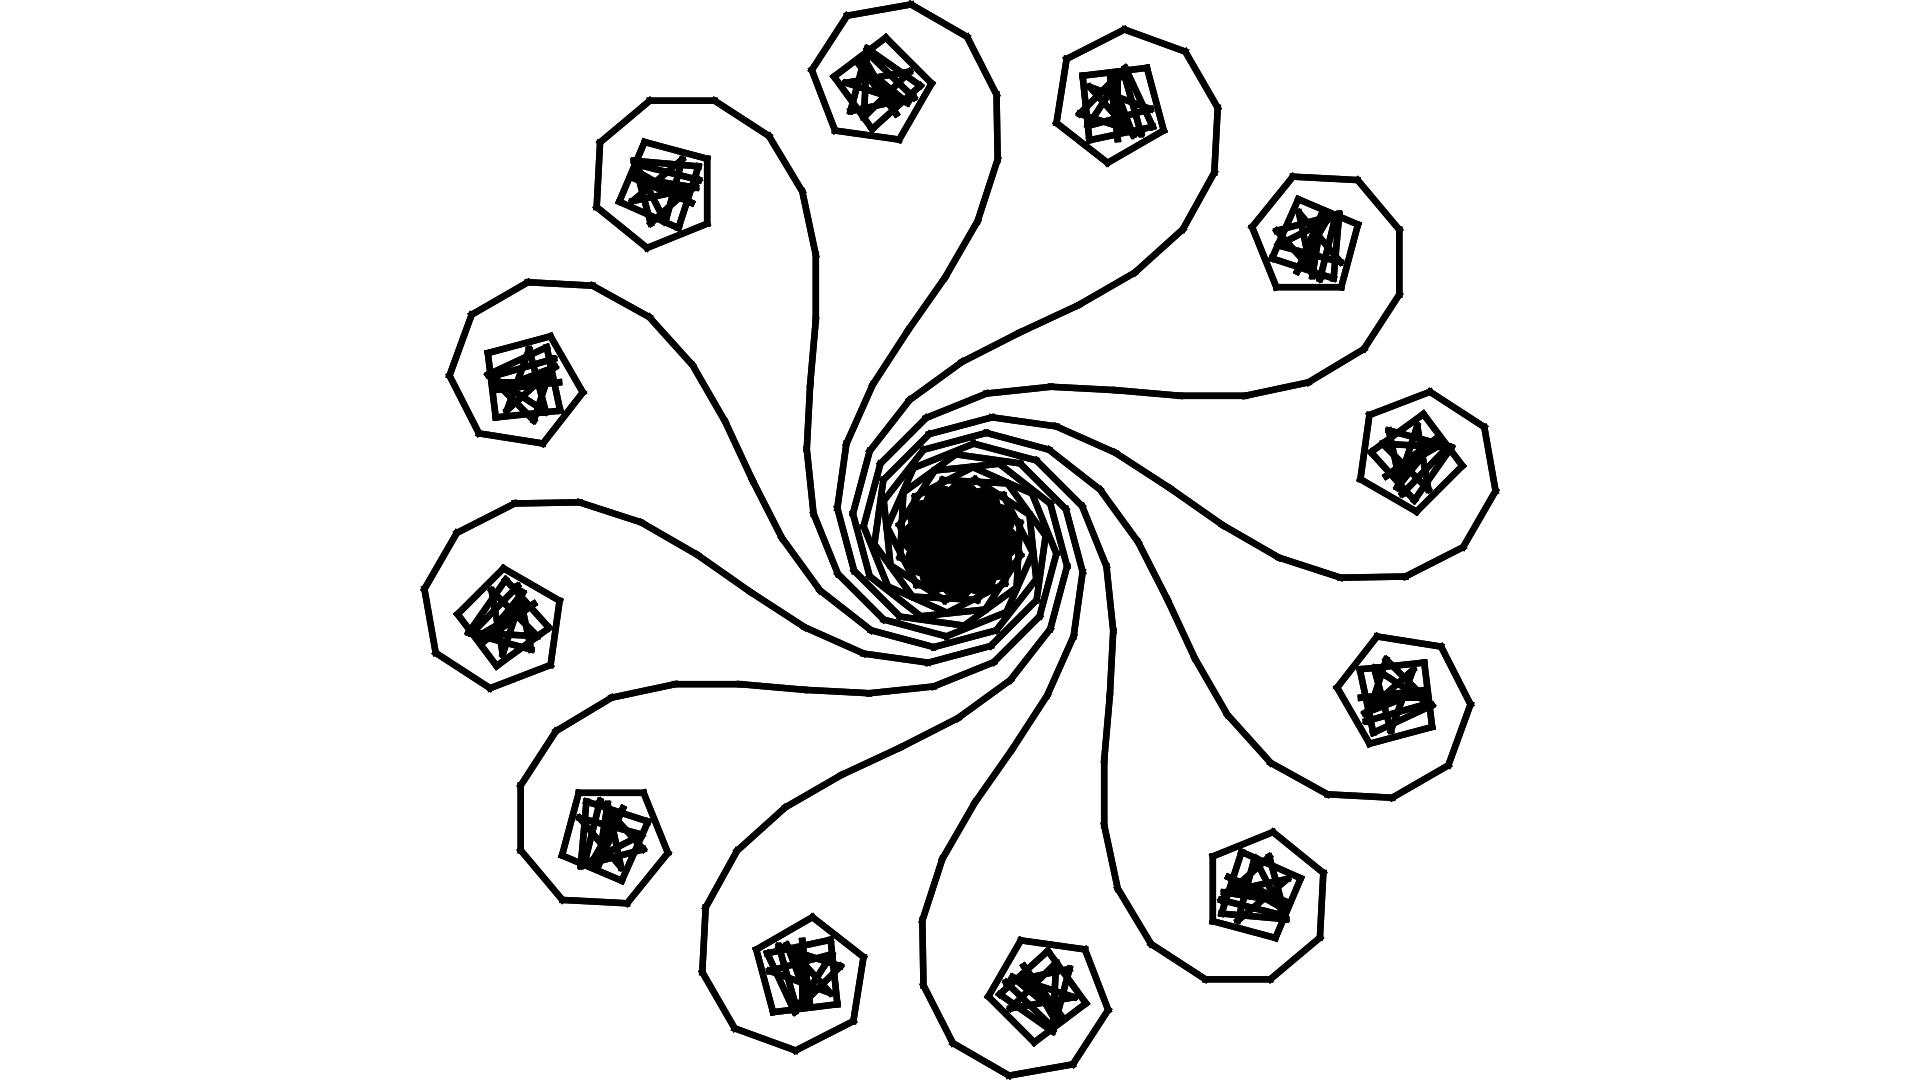
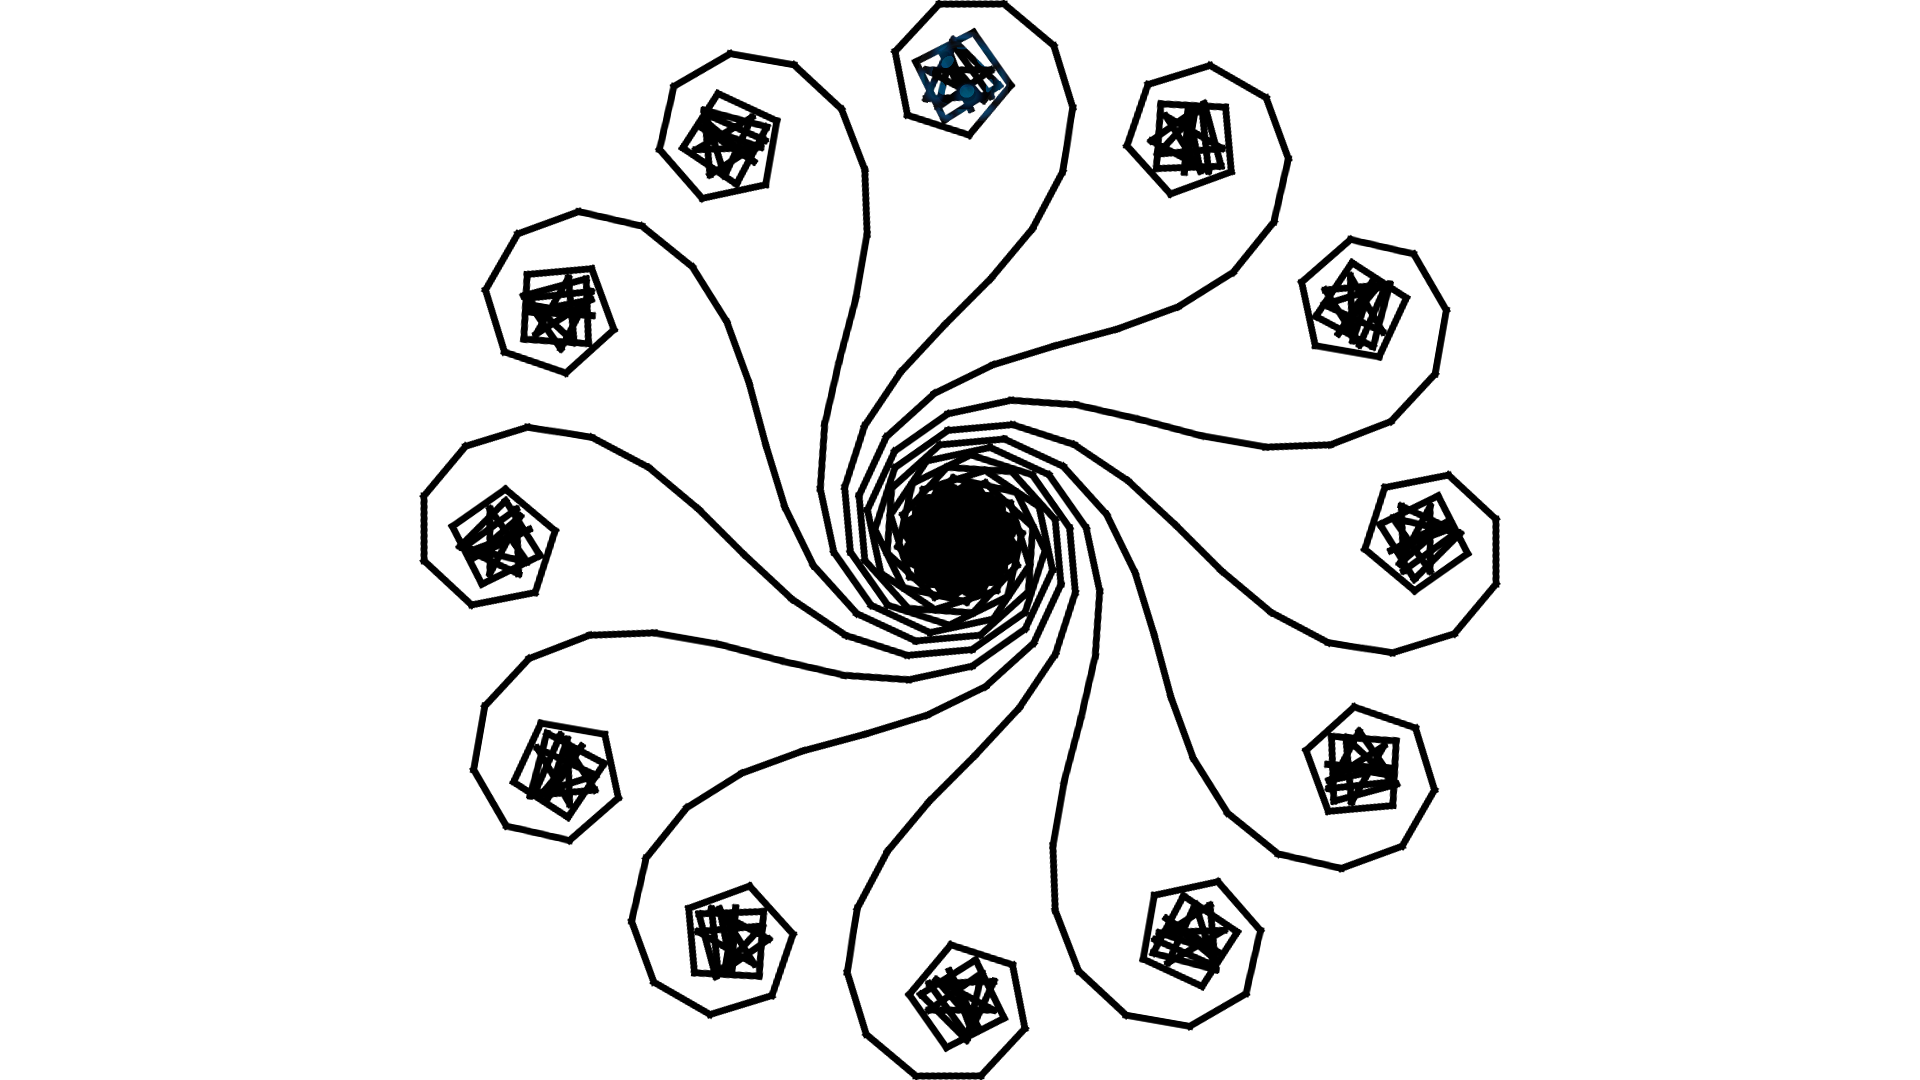
should be done/refined

Changed region(s): [[0.2188, 0.0, 0.7812, 1.0]]

diff --git a/live-wallpaper/live-dive.py b/live-wallpaper/live-dive.py
@@ -6,14 +6,16 @@ base = Image.open('coool2.png').convert('RGBA')
 wheel = Image.open('coool.png').convert('RGBA')
 
 txt = Image.new('RGBA', base.size, (255,255,255,0))
-fnt = ImageFont.truetype('Pillow/Tests/fonts/FreeMono.ttf', 18)
+#fnt = ImageFont.truetype('Pillow/Tests/fonts/FreeMono.ttf', 18)
+fnt = ImageFont.truetype('/usr/share/fonts/truetype/dejavu/DejaVuSansMono.ttf', 14)
 d = ImageDraw.Draw(txt)
 
-d.text((10,60), subprocess.run(['tail', '/home/alex/irclogs/Skynet/#twitter.log'], stdout=subprocess.PIPE).stdout.decode('utf-8'), font=fnt, fill=(255,255,255,255))
-d.text((10,300), subprocess.run(['tail', '/home/alex/irclogs/Skynet/#twitter2.log'], stdout=subprocess.PIPE).stdout.decode('utf-8'), font=fnt, fill=(255,255,255,255))
+d.text((60,60), subprocess.run('grep -v "danspena" /home/alex/irclogs/Skynet/#twitter.log | tail | cut -d " " -f2-', stdout=subprocess.PIPE, shell=True).stdout.decode('utf-8'), font=fnt, fill=(255,255,255,255))
+d.text((60,300), subprocess.run('tail /home/alex/irclogs/Skynet/#twitter2.log | cut -d " " -f2-', stdout=subprocess.PIPE, shell=True).stdout.decode('utf-8'), font=fnt, fill=(255,255,255,255))
+d.text((10,1016), subprocess.run('date', stdout=subprocess.PIPE, shell=True).stdout.decode('utf-8'), font=fnt, fill=(255,255,255,90))
 
 now = datetime.datetime.now()
-preout = Image.alpha_composite(base, wheel.rotate( (now.minute/66)*100) )
+preout = Image.alpha_composite(base, wheel.rotate( -(now.minute/0.1666) ))
 out = Image.alpha_composite(preout, txt)
 
 out.save("/home/alex/out.png")

diff --git a/live-wallpaper/README.md b/live-wallpaper/README.md
@@ -1,0 +1,12 @@
+# live-wallpaper
+
+Makes a live wallpaper
+
+<p align="center">
+<img src="https://raw.githubusercontent.com/xrazybud/misc/master/live-wallpaper/screenshot.jpg" width=800>
+</p>
+
+## Notes
+- The wheel is a giant minute wheel, with the actual minute place shaded
+- Text is updated regularly with a console command
+- It's grepping/tailing logs now, but you could do 'watch -n 60 w' or whatever you want
